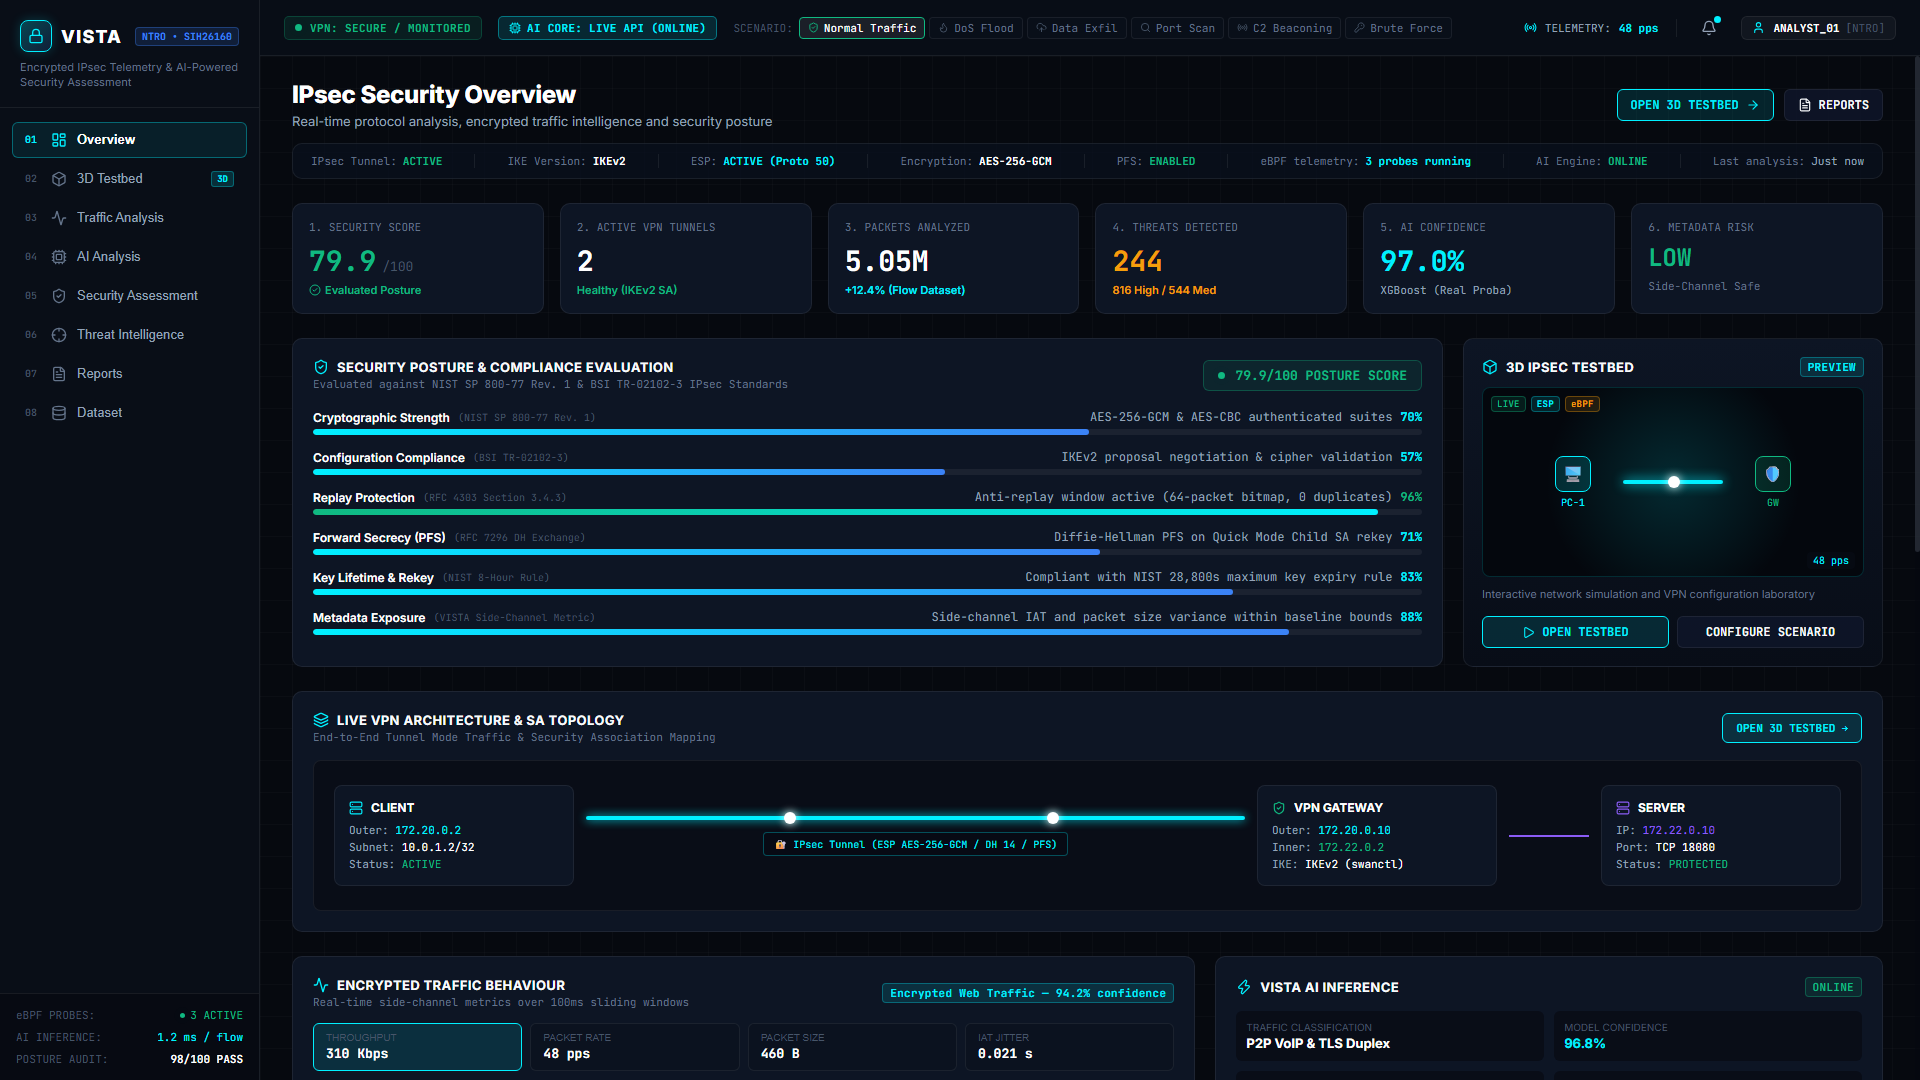
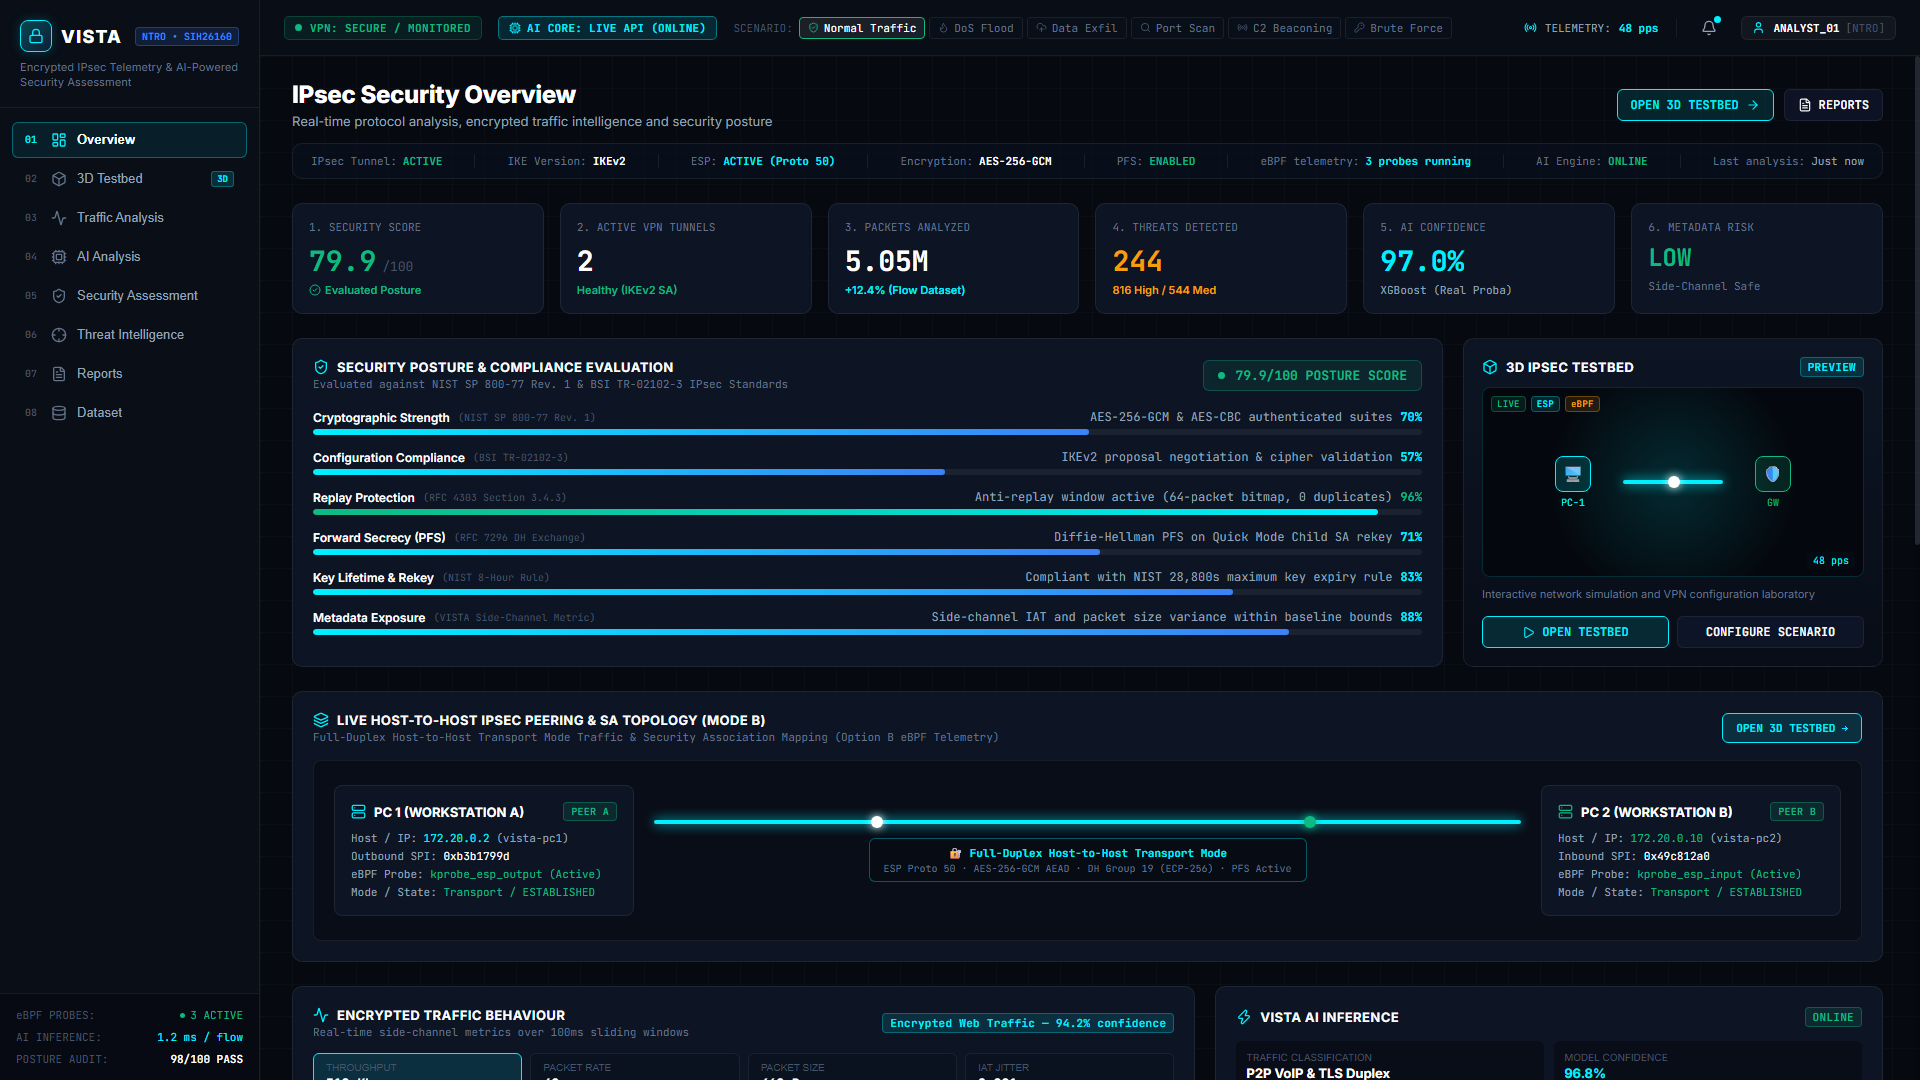
refactor(topology): align platform and UI strictly to Mode B host-to-host IPsec peering

diff --git a/vista-dashboard/src/components/views/OverviewView.jsx b/vista-dashboard/src/components/views/OverviewView.jsx
@@ -521,16 +521,16 @@ export default function OverviewView({
 
       </div>
 
-      {/* 4. LIVE 2D SIMPLIFIED VPN TOPOLOGY */}
+      {/* 4. LIVE 2D HOST-TO-HOST DUPLEX VPN TOPOLOGY (MODE B) */}
       <div className="soc-card" style={{ padding: '20px' }}>
         <div style={{ display: 'flex', alignItems: 'center', justifyContent: 'space-between', marginBottom: '16px' }}>
           <div>
             <div className="soc-card-title">
               <Layers size={16} color="var(--cyan)" />
-              <span>Live VPN Architecture & SA Topology</span>
+              <span>Live Host-to-Host IPsec Peering & SA Topology (Mode B)</span>
             </div>
             <div className="soc-card-subtitle" style={{ marginTop: '2px' }}>
-              End-to-End Tunnel Mode Traffic & Security Association Mapping
+              Full-Duplex Host-to-Host Transport Mode Traffic & Security Association Mapping (Option B eBPF Telemetry)
             </div>
           </div>
 
@@ -543,50 +543,54 @@ export default function OverviewView({
           </button>
         </div>
 
-        {/* 2D Visual Network Pipeline */}
+        {/* 2D Visual Network Pipeline — Mode B Duplex Peering */}
         <div style={{
           background: 'rgba(6, 9, 15, 0.6)',
           border: '1px solid var(--border-subtle)',
           borderRadius: '8px',
           padding: '24px 20px',
           display: 'grid',
-          gridTemplateColumns: '240px 1fr 240px 80px 240px',
+          gridTemplateColumns: '300px 1fr 300px',
           alignItems: 'center',
-          gap: '12px'
+          gap: '20px'
         }}>
-          {/* CLIENT NODE */}
+          {/* PC 1 (WORKSTATION A) */}
           <div style={{
             background: 'var(--bg-card)',
             border: '1px solid var(--border-subtle)',
             borderRadius: '8px',
-            padding: '14px'
+            padding: '16px'
           }}>
-            <div style={{ display: 'flex', alignItems: 'center', gap: '8px', marginBottom: '8px' }}>
-              <Server size={14} color="var(--cyan)" />
-              <span style={{ fontSize: '12px', fontWeight: '700', color: '#fff' }}>CLIENT</span>
+            <div style={{ display: 'flex', alignItems: 'center', justifyContent: 'space-between', marginBottom: '10px' }}>
+              <div style={{ display: 'flex', alignItems: 'center', gap: '8px' }}>
+                <Server size={15} color="var(--cyan)" />
+                <span style={{ fontSize: '13px', fontWeight: '700', color: '#fff' }}>PC 1 (WORKSTATION A)</span>
+              </div>
+              <span className="soc-badge success" style={{ fontSize: '10px' }}>PEER A</span>
             </div>
-            <div style={{ fontSize: '11px', fontFamily: 'var(--font-mono)', display: 'flex', flexDirection: 'column', gap: '3px', color: 'var(--text-secondary)' }}>
-              <div>Outer: <span style={{ color: 'var(--cyan)' }}>{TOPOLOGY_DATA.client.ip}</span></div>
-              <div>Subnet: <span style={{ color: '#fff' }}>{TOPOLOGY_DATA.client.subnet}</span></div>
-              <div>Status: <span style={{ color: 'var(--green)' }}>ACTIVE</span></div>
+            <div style={{ fontSize: '11px', fontFamily: 'var(--font-mono)', display: 'flex', flexDirection: 'column', gap: '4px', color: 'var(--text-secondary)' }}>
+              <div>Host / IP: <span style={{ color: 'var(--cyan)' }}>{TOPOLOGY_DATA.pc1?.ip || '172.20.0.2'}</span> (vista-pc1)</div>
+              <div>Outbound SPI: <span style={{ color: '#fff' }}>{TOPOLOGY_DATA.pc1?.spi || '0xb3b1799d'}</span></div>
+              <div>eBPF Probe: <span style={{ color: 'var(--green)' }}>{TOPOLOGY_DATA.pc1?.ebpfProbe || 'kprobe_esp_output'}</span></div>
+              <div>Mode / State: <span style={{ color: 'var(--green)' }}>Transport / ESTABLISHED</span></div>
             </div>
           </div>
 
-          {/* IPSEC ENCRYPTED TUNNEL CONNECTOR */}
-          <div style={{ position: 'relative', display: 'flex', flexDirection: 'column', alignItems: 'center' }}>
+          {/* FULL-DUPLEX IPSEC TRANSPORT ENCRYPTION CONNECTOR */}
+          <div style={{ position: 'relative', display: 'flex', flexDirection: 'column', alignItems: 'center', width: '100%' }}>
             <div style={{
               width: '100%',
               height: '4px',
               background: isDanger ? 'var(--danger)' : 'var(--cyan)',
               borderRadius: '2px',
-              boxShadow: isDanger ? '0 0 10px var(--danger)' : '0 0 10px var(--cyan)',
+              boxShadow: isDanger ? '0 0 12px var(--danger)' : '0 0 12px var(--cyan)',
               position: 'relative'
             }}>
-              {/* Animated Packet Dots */}
+              {/* Bidirectional Animated Packet Dots */}
               <div style={{
                 position: 'absolute',
                 top: '-4px',
-                left: '30%',
+                left: '25%',
                 width: '12px',
                 height: '12px',
                 borderRadius: '50%',
@@ -596,66 +600,55 @@ export default function OverviewView({
               <div style={{
                 position: 'absolute',
                 top: '-4px',
-                left: '70%',
+                left: '75%',
                 width: '12px',
                 height: '12px',
                 borderRadius: '50%',
-                background: '#fff',
-                boxShadow: '0 0 8px #fff'
+                background: 'var(--green)',
+                boxShadow: '0 0 8px var(--green)'
               }} />
             </div>
 
             <div style={{
-              marginTop: '12px',
+              marginTop: '14px',
               textAlign: 'center',
-              fontSize: '10px',
+              fontSize: '11px',
               fontFamily: 'var(--font-mono)',
               color: isDanger ? 'var(--danger)' : 'var(--cyan)',
-              background: 'rgba(7, 11, 20, 0.85)',
-              padding: '4px 10px',
-              borderRadius: '4px',
-              border: `1px solid ${isDanger ? 'rgba(239, 68, 68, 0.3)' : 'rgba(0, 240, 255, 0.3)'}`
+              background: 'rgba(7, 11, 20, 0.9)',
+              padding: '6px 14px',
+              borderRadius: '6px',
+              border: `1px solid ${isDanger ? 'rgba(239, 68, 68, 0.4)' : 'rgba(0, 240, 255, 0.35)'}`,
+              display: 'flex',
+              flexDirection: 'column',
+              gap: '2px'
             }}>
-              🔐 IPsec Tunnel (ESP AES-256-GCM / DH 14 / PFS)
+              <span style={{ fontWeight: '700' }}>🔐 Full-Duplex Host-to-Host Transport Mode</span>
+              <span style={{ fontSize: '10px', color: 'var(--text-muted)' }}>
+                ESP Proto 50 · AES-256-GCM AEAD · DH Group 19 (ECP-256) · PFS Active
+              </span>
             </div>
           </div>
 
-          {/* VPN GATEWAY */}
+          {/* PC 2 (WORKSTATION B) */}
           <div style={{
             background: 'var(--bg-card)',
             border: '1px solid var(--border-subtle)',
             borderRadius: '8px',
-            padding: '14px'
+            padding: '16px'
           }}>
-            <div style={{ display: 'flex', alignItems: 'center', gap: '8px', marginBottom: '8px' }}>
-              <ShieldCheck size={14} color="var(--green)" />
-              <span style={{ fontSize: '12px', fontWeight: '700', color: '#fff' }}>VPN GATEWAY</span>
+            <div style={{ display: 'flex', alignItems: 'center', justifyContent: 'space-between', marginBottom: '10px' }}>
+              <div style={{ display: 'flex', alignItems: 'center', gap: '8px' }}>
+                <Server size={15} color="var(--green)" />
+                <span style={{ fontSize: '13px', fontWeight: '700', color: '#fff' }}>PC 2 (WORKSTATION B)</span>
+              </div>
+              <span className="soc-badge success" style={{ fontSize: '10px' }}>PEER B</span>
             </div>
-            <div style={{ fontSize: '11px', fontFamily: 'var(--font-mono)', display: 'flex', flexDirection: 'column', gap: '3px', color: 'var(--text-secondary)' }}>
-              <div>Outer: <span style={{ color: 'var(--cyan)' }}>{TOPOLOGY_DATA.gateway.outerIp}</span></div>
-              <div>Inner: <span style={{ color: 'var(--green)' }}>{TOPOLOGY_DATA.gateway.innerIp}</span></div>
-              <div>IKE: <span style={{ color: '#fff' }}>IKEv2 (swanctl)</span></div>
-            </div>
-          </div>
-
-          {/* INTERNAL LAN CABLE */}
-          <div style={{ height: '2px', background: 'var(--purple)', width: '100%' }} />
-
-          {/* PROTECTED SERVER */}
-          <div style={{
-            background: 'var(--bg-card)',
-            border: '1px solid var(--border-subtle)',
-            borderRadius: '8px',
-            padding: '14px'
-          }}>
-            <div style={{ display: 'flex', alignItems: 'center', gap: '8px', marginBottom: '8px' }}>
-              <Server size={14} color="var(--purple)" />
-              <span style={{ fontSize: '12px', fontWeight: '700', color: '#fff' }}>SERVER</span>
-            </div>
-            <div style={{ fontSize: '11px', fontFamily: 'var(--font-mono)', display: 'flex', flexDirection: 'column', gap: '3px', color: 'var(--text-secondary)' }}>
-              <div>IP: <span style={{ color: 'var(--purple)' }}>{TOPOLOGY_DATA.server.ip}</span></div>
-              <div>Port: <span style={{ color: '#fff' }}>TCP 18080</span></div>
-              <div>Status: <span style={{ color: 'var(--green)' }}>PROTECTED</span></div>
+            <div style={{ fontSize: '11px', fontFamily: 'var(--font-mono)', display: 'flex', flexDirection: 'column', gap: '4px', color: 'var(--text-secondary)' }}>
+              <div>Host / IP: <span style={{ color: 'var(--green)' }}>{TOPOLOGY_DATA.pc2?.ip || '172.20.0.10'}</span> (vista-pc2)</div>
+              <div>Inbound SPI: <span style={{ color: '#fff' }}>{TOPOLOGY_DATA.pc2?.spi || '0x49c812a0'}</span></div>
+              <div>eBPF Probe: <span style={{ color: 'var(--green)' }}>{TOPOLOGY_DATA.pc2?.ebpfProbe || 'kprobe_esp_input'}</span></div>
+              <div>Mode / State: <span style={{ color: 'var(--green)' }}>Transport / ESTABLISHED</span></div>
             </div>
           </div>
         </div>

diff --git a/vista-dashboard/src/data/socData.js b/vista-dashboard/src/data/socData.js
@@ -106,43 +106,40 @@ export const SECURITY_POSTURE_BREAKDOWN = [
 ];
 
 export const TOPOLOGY_DATA = {
-  client: {
-    label: "CLIENT",
+  pc1: {
+    id: "pc1",
+    label: "PC 1 (WORKSTATION A)",
+    name: "vista-pc1",
     ip: "172.20.0.2",
-    subnet: "10.0.1.2/32",
     mac: "02:42:ac:14:00:02",
-    role: "Initiator Workstation",
-    status: "HEALTHY"
+    role: "IPsec Peer A / Client Initiator",
+    spi: "0xb3b1799d",
+    ebpfProbe: "kprobe_esp_output (Active)",
+    status: "HEALTHY (ACTIVE)"
   },
-  gateway: {
-    label: "VPN GATEWAY",
-    outerIp: "172.20.0.10",
-    innerIp: "172.22.0.2",
-    subnet: "172.22.0.0/24",
-    role: "IPsec Security Gateway / Edge",
-    status: "HEALTHY"
+  pc2: {
+    id: "pc2",
+    label: "PC 2 (WORKSTATION B)",
+    name: "vista-pc2",
+    ip: "172.20.0.10",
+    mac: "02:42:ac:14:00:0a",
+    role: "IPsec Peer B / Duplex Responder",
+    spi: "0x49c812a0",
+    ebpfProbe: "kprobe_esp_input (Active)",
+    status: "HEALTHY (ACTIVE)"
   },
-  server: {
-    label: "PROTECTED SERVER",
-    ip: "172.22.0.10",
-    service: "Internal Application Service (TCP :18080)",
-    subnet: "172.22.0.10/32",
-    role: "Protected Resource",
-    status: "HEALTHY"
-  },
-  tunnel: {
-    name: "vista-tunnel",
-    mode: "Tunnel Mode (RFC 4301)",
-    ikeStatus: "ESTABLISHED (IKEv2)",
-    espStatus: "ACTIVE (ESP proto 50)",
-    spiLocal: "0xb3b1799d",
-    spiRemote: "0x49c812a0",
-    encryption: "AES-256-GCM",
-    authentication: "SHA-256",
-    dhGroup: "DH Group 14 (MODP-2048)",
-    pfs: "Enabled",
-    antiReplay: "Enabled (64-packet window)",
-    natTraversal: "UDP Encapsulation (Port 4500) Inactive"
+  transport: {
+    name: "vista-duplex",
+    mode: "Host-to-Host Transport Mode (RFC 4301)",
+    ikeVersion: "IKEv2 (swanctl)",
+    espStatus: "ACTIVE (ESP Proto 50)",
+    encryption: "AES-256-GCM AEAD",
+    dhGroup: "Group 19 (ECP-256)",
+    pfs: "ENABLED",
+    antiReplay: "64-Packet Window",
+    rekeySec: "14,400s",
+    authentication: "Combined-AEAD (ICV-128)",
+    natTraversal: "Direct ESP / Proto 50 (NAT-T Not Required)"
   }
 };
 

diff --git a/README.md b/README.md
@@ -16,7 +16,7 @@ VISTA is an end-to-end cybersecurity intelligence platform designed to analyze I
 The VISTA SOC platform provides a unified operations console for defense analysts, SOC operators, and cryptographic auditors.
 
 ### 2.1 IPsec Security Overview & Posture Dashboard
-> Real-time protocol status (IKEv2, ESP Proto 50, AES-256-GCM), active tunnel topology, NIST SP 800-77 compliance scores, side-channel metadata risk, and live eBPF stream status.
+> Real-time protocol status (IKEv2, ESP Proto 50, AES-256-GCM), Mode B host-to-host duplex peering topology (Workstation A ↔ Workstation B), NIST SP 800-77 compliance scores, side-channel metadata risk, and live eBPF stream status.
 
 ![IPsec Security Overview](docs/screenshots/01_overview.png)
 
@@ -75,23 +75,24 @@ The VISTA SOC platform provides a unified operations console for defense analyst
 
 ```
 ┌────────────────────────────────────────────────────────────────────────┐
-│                        VISTA ARCHITECTURE MAP                          │
+│                   VISTA MODE B ARCHITECTURE MAP                        │
 │                                                                        │
 │  [ frontend: vista-dashboard/ ] ──(REST / WebSocket)──┐                │
 │    • React + Vite SOC Dashboard                       │                │
 │    • In-browser PCAP & CSV parser (fallback)          ▼                │
-│    • 3D IPsec Tunnel Visualization         [ backend: FastAPI API ]    │
+│    • 3D WebGL Duplex Peering Canvas        [ backend: FastAPI API ]    │
 │    • Dynamic Security Scorecard              • /api/analyze/pcap       │
 │                                              • /api/analyze/csv        │
-│  [ topology: Docker Testbed ]                • /api/audit/sessions     │
-│    • vista-client  (172.20.0.2)              • /api/soc/status         │
-│    • vista-gateway (172.20.0.10)             • /api/ml/metrics         │
-│    • vista-server  (172.22.0.10)                      │                │
-│    • Transport, Tunnel & CBC configs                  ▼                │
+│  [ topology: Mode B IPsec Testbed ]          • /api/audit/sessions     │
+│    • vista-pc1 (Workstation A: 172.20.0.2)   • /api/soc/status         │
+│    • vista-pc2 (Workstation B: 172.20.0.10)  • /api/ml/metrics         │
+│    • Full-Duplex Transport Mode (Proto 50)   • /api/ebpf/events        │
+│    • AES-256-GCM / SHA256 / DH Group 19               │                │
+│                                                       ▼                │
 │                                            [ vista-ml: AI Engine ]     │
 │  [ captures/ ] ──(PCAP Replay)─────────────> • Scapy Packet Decoder    │
 │    • Real StrongSwan ESP & IKE PCAPs         • XGBoost (Attack Class)  │
-│                                              • Random Forest (98.7% F1)│
+│    • eBPF Socket / XFRM Kernel Telemetry     • Random Forest (98.7% F1)│
 │                                              • Isolation Forest (Anom) │
 │                                              • SHAP Explainability     │
 └────────────────────────────────────────────────────────────────────────┘
@@ -160,12 +161,11 @@ Identifies vulnerabilities:
 
 ---
 
-## 6. IPsec Testbed Configuration Matrix
+## 6. Mode B IPsec Testbed Configuration
 
 Located in `configs/`:
-- `client-swanctl.conf` / `gateway-swanctl.conf`: IKEv2 Transport Mode with AES-256-GCM.
-- `client-tunnel-swanctl.conf` / `gateway-tunnel-swanctl.conf`: IKEv2 Tunnel Mode with subnet selectors.
-- `client-cbc-swanctl.conf` / `gateway-cbc-swanctl.conf`: IKEv2 AES-256-CBC with HMAC-SHA256 for cipher comparison.
+- `client-swanctl.conf` / `gateway-swanctl.conf`: Primary Mode B Host-to-Host Full-Duplex Transport Mode between Workstation A (`172.20.0.2`) and Workstation B (`172.20.0.10`) with AES-256-GCM AEAD & Diffie-Hellman Group 19 (ECP-256).
+- `client-cbc-swanctl.conf` / `gateway-cbc-swanctl.conf`: AES-256-CBC cipher baseline for comparative side-channel & padding oracle benchmarking.
 
 ---
 

diff --git a/docs/ARCHITECTURE.md b/docs/ARCHITECTURE.md
@@ -39,12 +39,10 @@ graph TD
         Analyzer --> ISO
     end
 
-    subgraph Testbed ["IPsec Lab Testbed (topology/)"]
-        Client[vista-client: 172.20.0.2]
-        GW[vista-gateway: 172.20.0.10 / 172.22.0.2]
-        Server[vista-server: 172.22.0.10]
-        Client -- "IKEv2 / ESP Tunnel (172.20.0.0/24)" --> GW
-        GW -- "Internal Plaintext Subnet (172.22.0.0/24)" --> Server
+    subgraph Testbed ["Mode B IPsec Host-to-Host Testbed (topology/)"]
+        PC1[PC 1 / Workstation A: 172.20.0.2]
+        PC2[PC 2 / Workstation B: 172.20.0.10]
+        PC1 <-- "Full-Duplex IPsec Transport Mode (ESP Proto 50 / AES-256-GCM / DH 19)" --> PC2
     end
 
     subgraph Kernel_eBPF ["eBPF Subsystem (ebpf/)"]
@@ -90,13 +88,13 @@ graph TD
 - **`vista_ebpf_agent.py`:** Userspace agent that reads the BPF ring buffer (native Linux BCC/libbpf mode) with an automatic testbed kernel bridge fallback for non-Linux host platforms.
 
 ### 2.4 Testbed Environment (`topology/` & `configs/`)
-- **Network Topology:**
-  - `vista-net` (`172.20.0.0/24`): Outer untrusted network carrying encrypted ESP / IKE packets.
-  - `vista-internal` (`172.22.0.0/24`): Inner protected network hosting `vista-server` (`172.22.0.10`).
-- **Configuration Variants:**
-  - Transport Mode: `client-swanctl.conf` / `gateway-swanctl.conf` (AES-256-GCM)
-  - Tunnel Mode: `client-tunnel-swanctl.conf` / `gateway-tunnel-swanctl.conf` (AES-256-GCM with subnet selectors)
-  - CBC Variant: `client-cbc-swanctl.conf` / `gateway-cbc-swanctl.conf` (AES-256-CBC + HMAC-SHA256)
+- **Network Topology (Mode B Host-to-Host Peering):**
+  - `vista-net` (`172.20.0.0/24`): Untrusted subnet carrying encrypted full-duplex ESP transport packets.
+  - `vista-pc1` / Workstation A (`172.20.0.2`): IPsec Initiator Workstation with active eBPF output telemetry.
+  - `vista-pc2` / Workstation B (`172.20.0.10`): IPsec Responder Workstation with active eBPF input telemetry.
+- **Cryptographic Suites:**
+  - Transport Mode: `client-swanctl.conf` / `gateway-swanctl.conf` (AES-256-GCM AEAD, DH Group 19 / ECP-256, PFS enabled)
+  - CBC Comparison: `client-cbc-swanctl.conf` / `gateway-cbc-swanctl.conf` (AES-256-CBC + HMAC-SHA256)
 
 ### 2.5 Cyber SOC Dashboard (`vista-dashboard/`)
 - Built with React, Vite, Three.js, Lucide Icons, and Vanilla CSS.
